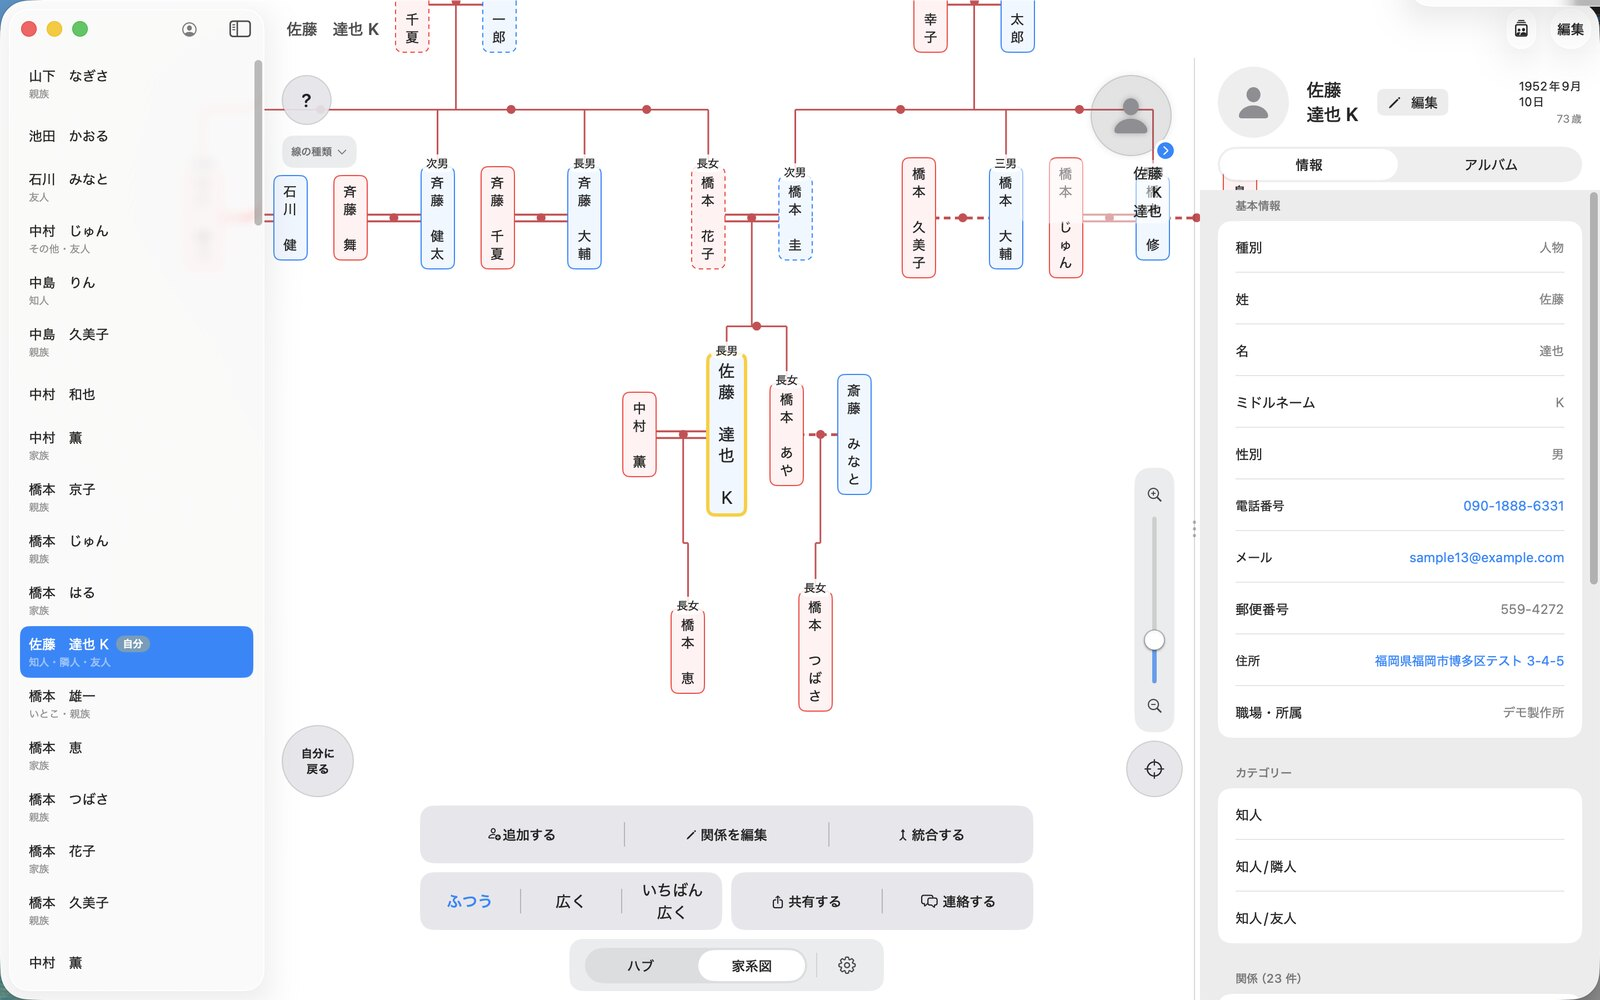
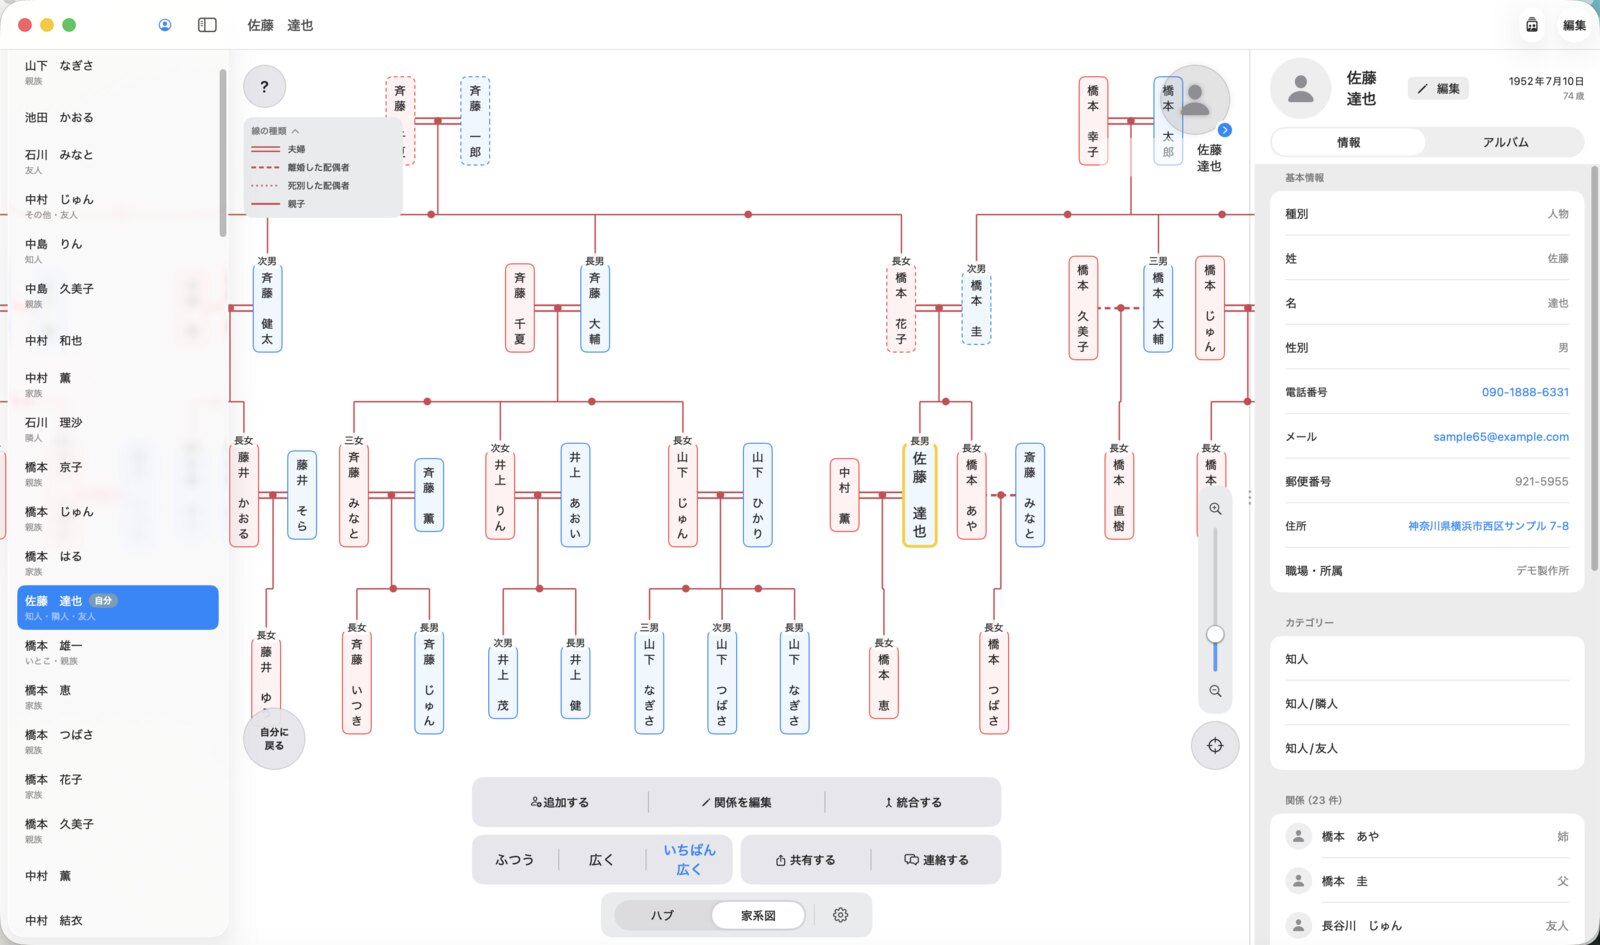
Mac版が公開されたので表記を修正＋家系図の画像を差し替え
- macOS 2.5 が READY_FOR_SALE（公開）になったため
  「まもなく公開」→「公開中」に変更し、札の色を金→緑に
- Mac App Store へのボタンを追加
- 「iPhone版をお持ちの方は追加のお支払いなく使えます」の一文を追加
  （Universal Purchase の説明）
- 家系図の画像を、いまの Mac 版から撮り直したものに差し替え

diff --git a/index.html b/index.html
@@ -108,8 +108,8 @@
   .macshot{border:1px solid var(--line);border-radius:14px;overflow:hidden;box-shadow:var(--shadow);margin-bottom:14px}
   .macgrid{display:grid;grid-template-columns:1fr 1fr;gap:22px;margin-top:32px}
   .macgrid p{font-size:17px;color:var(--sub);text-align:center}
-  .pill{display:inline-block;background:color-mix(in srgb, var(--gold) 18%, transparent);
-        color:var(--gold);border:1px solid color-mix(in srgb, var(--gold) 45%, transparent);
+  .pill{display:inline-block;background:color-mix(in srgb, var(--midori) 15%, transparent);
+        color:var(--midori);border:1px solid color-mix(in srgb, var(--midori) 45%, transparent);
         padding:5px 15px;border-radius:999px;font-size:15px;font-weight:600;letter-spacing:.06em}
 
   /* プライバシー */
@@ -275,18 +275,24 @@
   <div class="wrap">
     <p class="eyebrow">FOR MAC</p>
     <h2>Mac でも、同じつながりを。</h2>
-    <p class="sub"><span class="pill">まもなく公開</span></p>
-    <p class="narrow" style="text-align:center;color:var(--sub);font-size:19px;margin-bottom:8px">
+    <p class="sub"><span class="pill">公開中</span></p>
+    <p class="narrow" style="text-align:center;color:var(--sub);font-size:19px;margin-bottom:20px">
       広い画面を活かして、一覧・相関図・プロフィールを横に並べて表示します。
       キーボードで入力しやすく、たくさんの人をまとめて整理するのに向いています。
       iPhone・iPad と同じデータを iCloud で共有できます。
+    </p>
+    <p style="text-align:center">
+      <a class="btn" href="https://apps.apple.com/jp/app/id6777648250">Mac App Store で見る</a>
+    </p>
+    <p class="narrow" style="text-align:center;color:var(--sub);font-size:16px;margin-top:12px">
+      iPhone 版をお持ちの方は、追加のお支払いなくそのままお使いいただけます。
     </p>
     <div style="margin-top:34px">
       <div class="macshot"><img src="img/mac_1_hub.jpg" alt="Mac版の画面。左に一覧、中央に相関図、右にプロフィール" width="1600" height="1000" loading="lazy"></div>
     </div>
     <div class="macgrid">
       <div>
-        <div class="macshot"><img src="img/mac_2_tree.jpg" alt="Mac版の家系図" width="1600" height="1000" loading="lazy"></div>
+        <div class="macshot"><img src="img/mac_2_tree.jpg" alt="Mac版の家系図" width="1600" height="945" loading="lazy"></div>
         <p>家系図も、広い画面でまとめて見渡せます</p>
       </div>
       <div>
